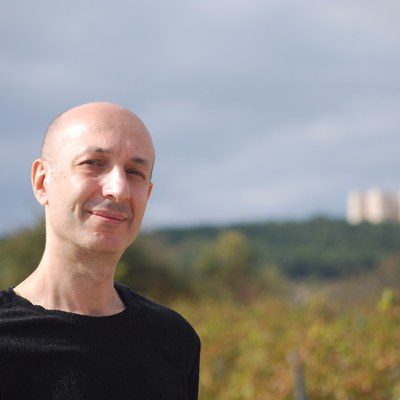
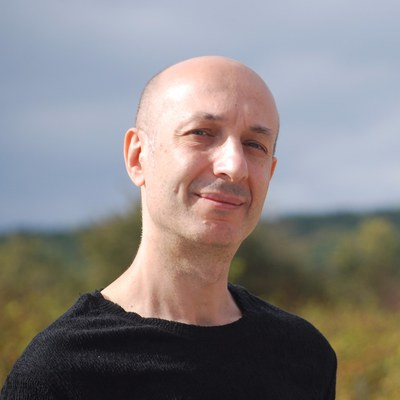
Add the last two headshots and drop the sponsor talks table
Colin Ophus and Brent Nannenga were the two remaining initials
placeholders; both photographs were supplied by the organizers, so
assets/people/ no longer contains any generated placeholder. Colin's crop
is shifted up and right to centre on him, away from the whiteboard.

Re-crop Corrado Cuocci: the window was too far right, leaving him off
centre with a wide stretch of empty sky. Moved left and tightened onto
his head and shoulders.

Drop the sponsor talks table from the sponsors page — the programme
already carries those two slots, and the page reads better as sponsors
and organizing bodies alone.

diff --git a/sponsors.md b/sponsors.md
@@ -20,15 +20,6 @@ The 2026 Electron Crystallography School is made possible by the support of our 
 
 :::
 
-## Sponsor talks
-
-Two sponsors give talks on the afternoon of [Day 3](./agenda.md#monday-day3):
-
-| Time | Talk | Speaker |
-| --- | --- | --- |
-| 14:00 – 14:30 | Quantum Detectors | G. Mangan |
-| 14:30 – 15:00 | NanoMEGAS | M. Veron |
-
 ## Organizing bodies
 
 The school is an official satellite school of the International Union of Crystallography, organized with the European Crystallographic Association and the ELECTRA electron crystallography network.
